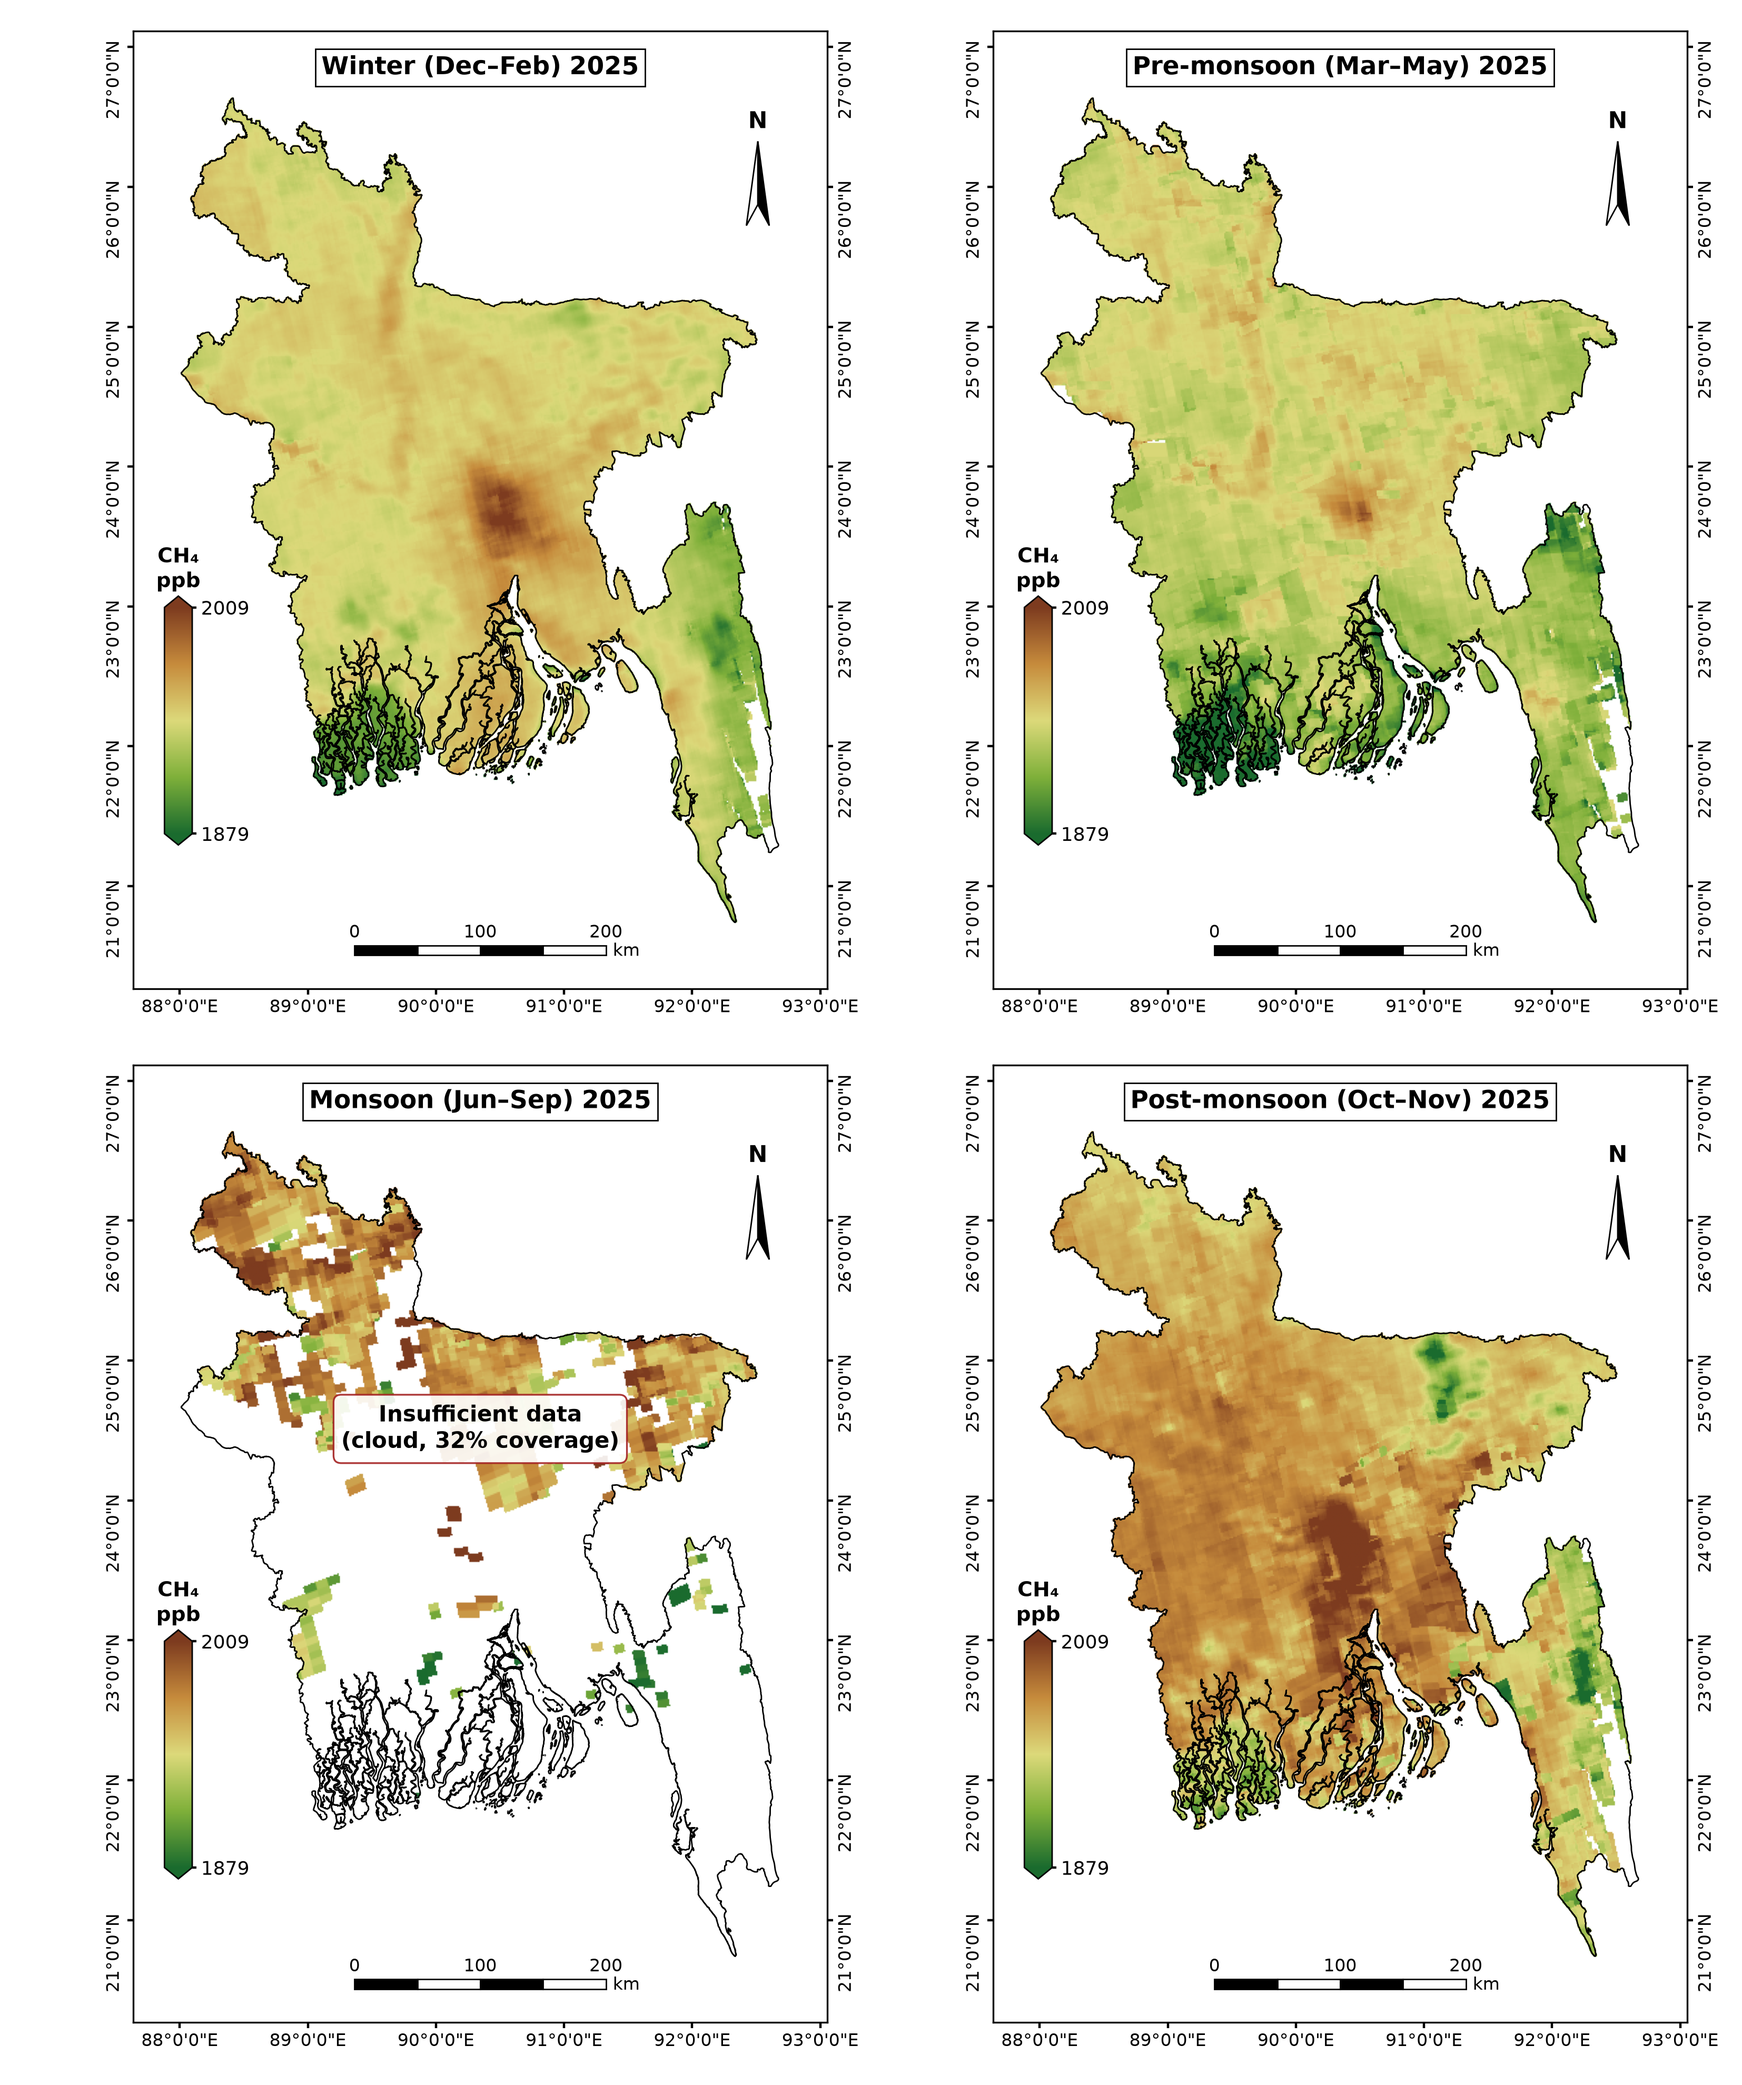
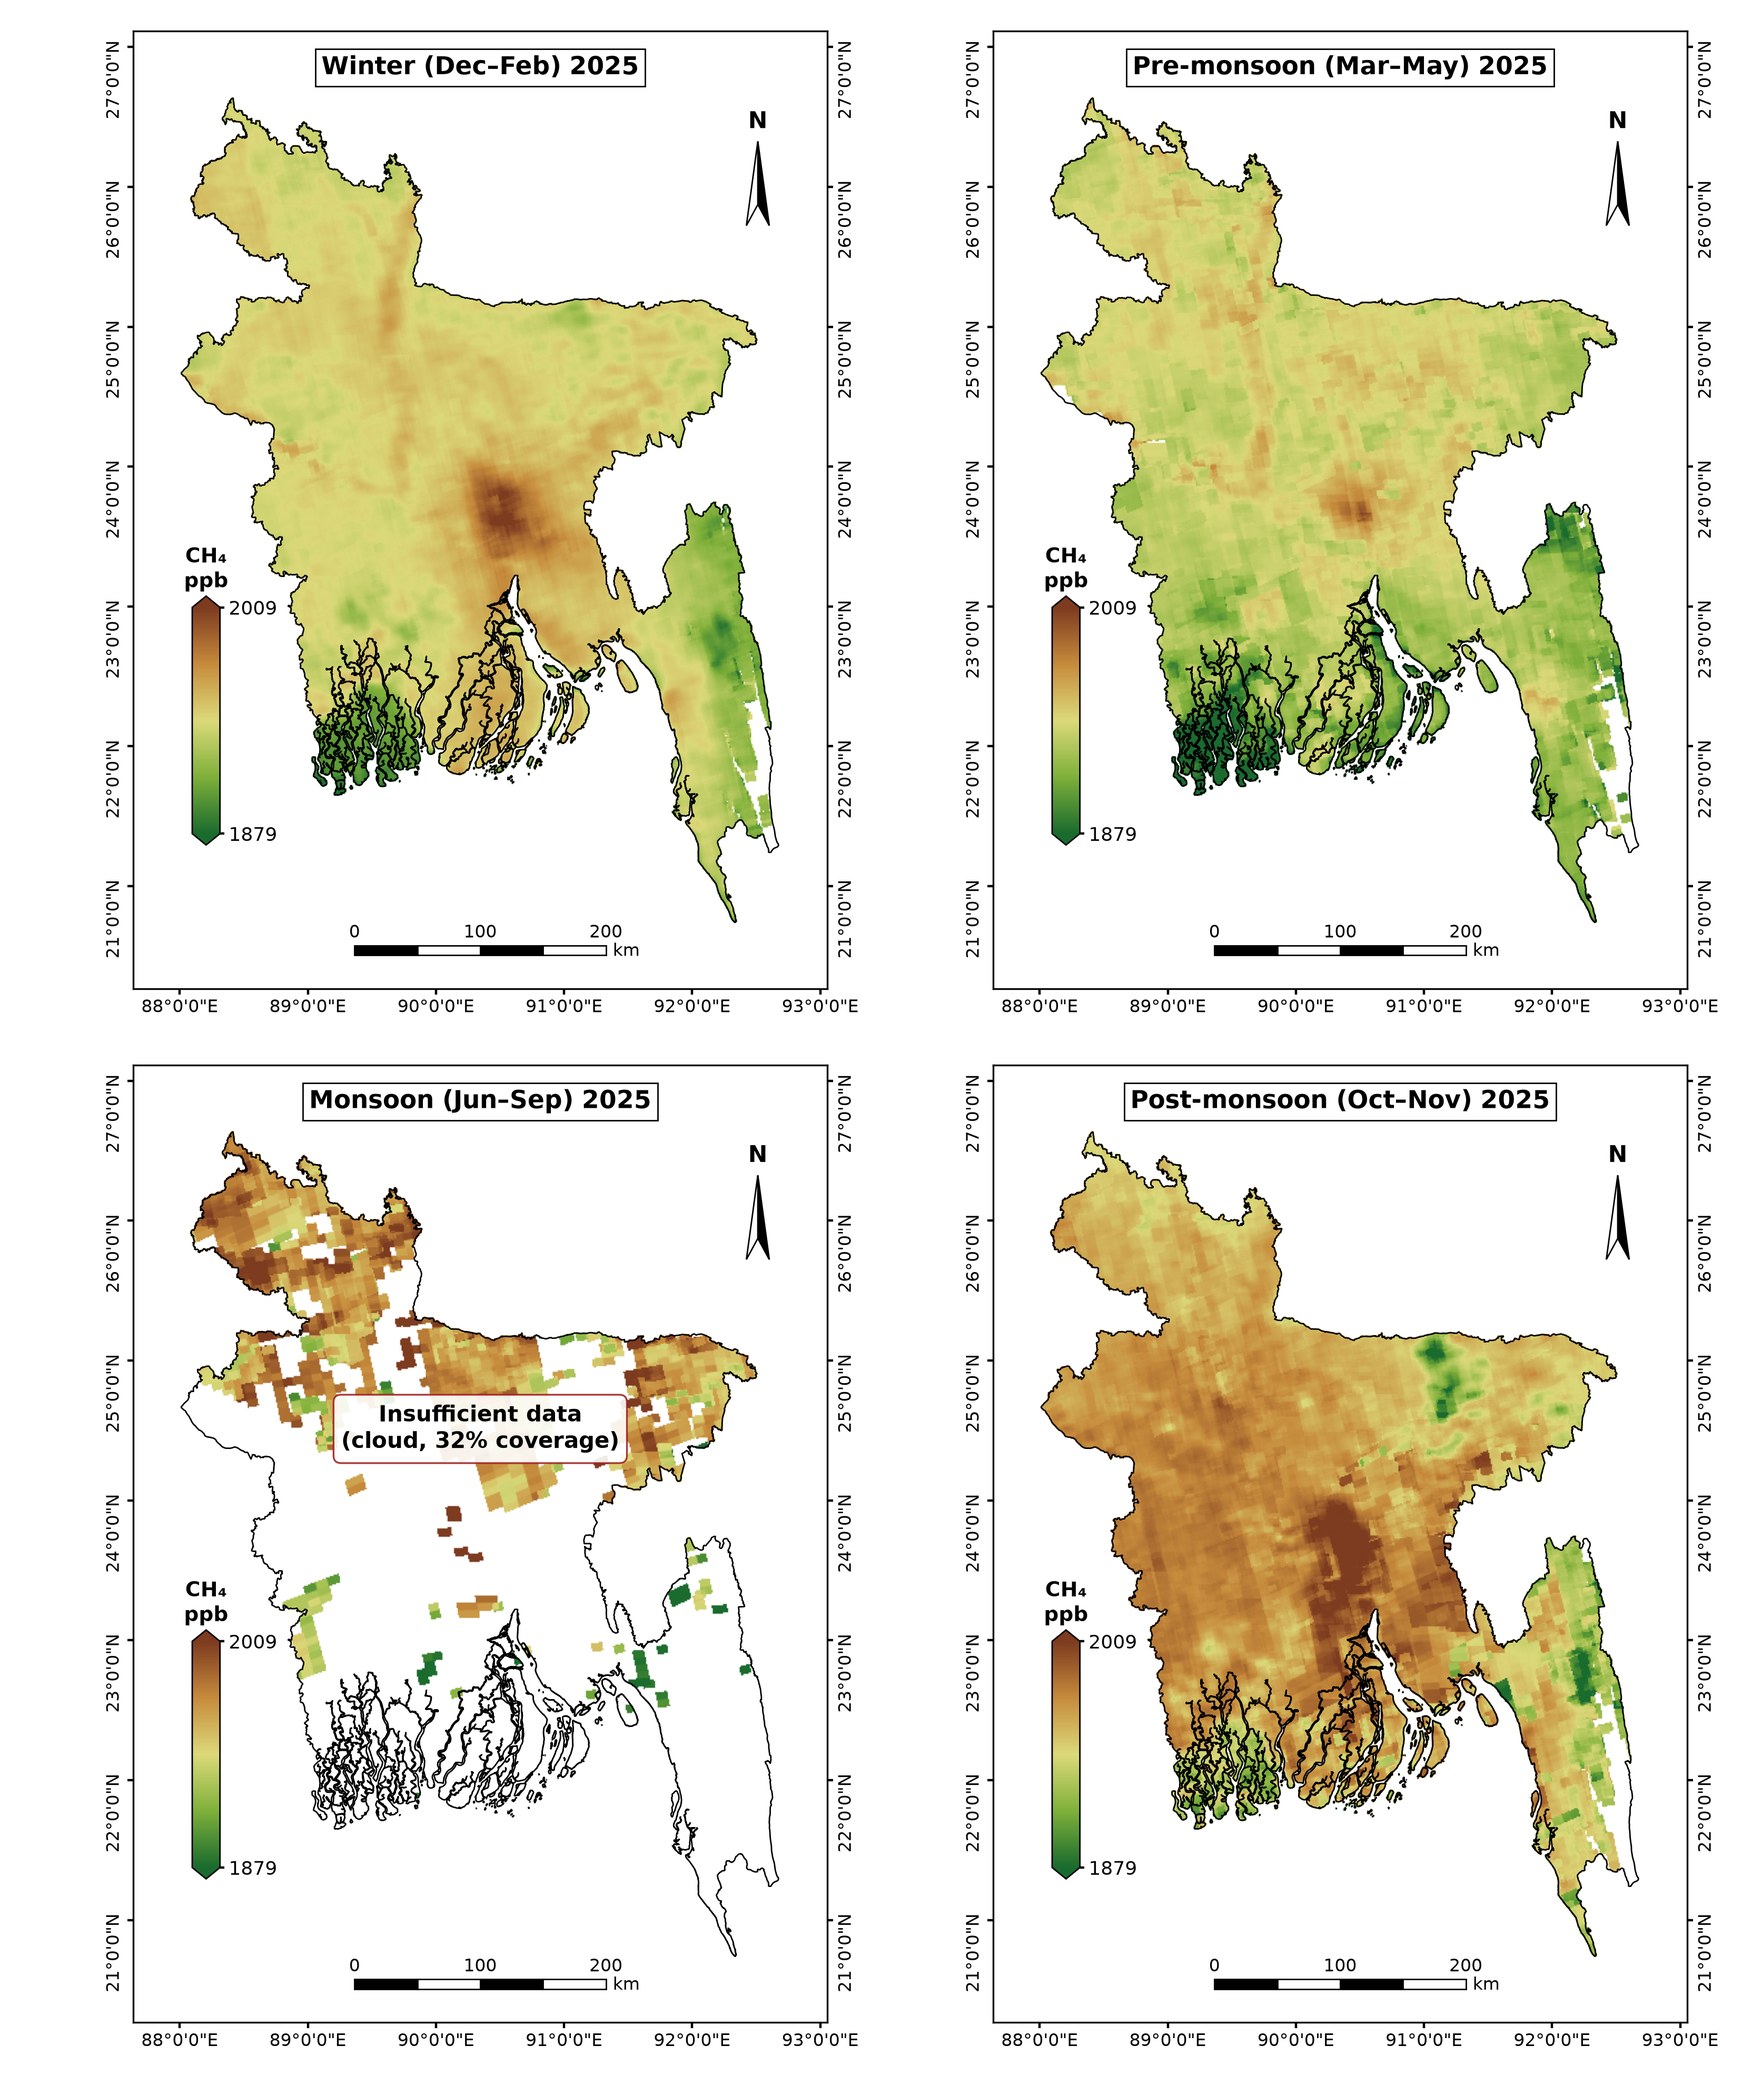
Fix seasonal map legend and update README

diff --git a/Scripts/seasonal_analysis.py b/Scripts/seasonal_analysis.py
@@ -223,7 +223,7 @@ for var, (label, unit, cmap, factor) in VARIABLES.items():
         scale_bar(ax, ext)
 
         cax = inset_axes(ax, width="4%", height="26%", loc="lower left",
-                         bbox_to_anchor=(0.045, 0.15, 1, 1),
+                         bbox_to_anchor=(0.085, 0.15, 1, 1),
                          bbox_transform=ax.transAxes, borderpad=0)
         cb = fig.colorbar(im, cax=cax, extend="both")
         cb.set_ticks([vmin, vmax])

diff --git a/README.md b/README.md
@@ -24,7 +24,7 @@ Script for GEE/      GEE scripts (JavaScript) that export the rasters and daily 
 Scripts/             Python scripts for maps and statistics
 BD_AQ_2025/          Tables exported from GEE and station data (CSV only)
 Figures_v2/          Final figures
-    Annual/  Monthly/  Temporal/  Statistics/  StudyArea/  Flowchart/
+    Annual/  Monthly/  Seasonal/  Temporal/  Statistics/  StudyArea/  Flowchart/
 Station_validation/  Satellite vs DoE station comparison (tables and figure)
 ```
 
@@ -58,8 +58,11 @@ Run in this order:
 | 6 | `correlation_matrix.py` | 0.05° pixel table, Pearson and Spearman matrices |
 | 7 | `regression_plots.py` | LST vs pollutant regressions |
 | 8 | `pca_analysis.py` | PCA scree plot, biplot, loadings |
-| 9 | `gwr_analysis.py` | GWR coefficient maps and summary |
-| 10 | `station_validation.py` | Satellite vs station comparison, WHO / Bangladesh standard table |
+| 9 | `gwr_analysis.py` | GWR coefficient maps and summary (main model and UVAI check model) |
+| 10 | `seasonal_analysis.py` | Seasonal maps, seasonal means, seasonal LST–pollutant correlation |
+| 11 | `station_validation.py` | Satellite vs station comparison, WHO / Bangladesh standard table |
+
+Steps 7–9 read the pixel table made in step 6, so run step 6 first.
 
 ## How to run
 
@@ -81,7 +84,11 @@ Each script prints `Done.` when it finishes.
 - Months with < 50% valid pixels are labelled as insufficient data (monsoon cloud).
 - One shared colour scale per variable across all months.
 - O3 is converted from mol/m² to Dobson Units for mapping.
+- NO2 and SO2 are shown in µmol/m² (mol/m² × 10⁶); SO2 values below −0.001 mol/m² are removed as noise.
 - PM2.5 and PM10 are not estimated from satellite data; AOD is analysed directly.
+- Seasons: winter (Dec–Feb, using Jan, Feb and Dec 2025), pre-monsoon (Mar–May), monsoon (Jun–Sep), post-monsoon (Oct–Nov).
+- GWR: LST Day and LST Night ~ AOD + CH4 + HCHO + NO2 + CO (adaptive bisquare kernel, AICc bandwidth). UVAI, O3 and SO2 are left out of the main model; a second model with UVAI in place of AOD is run as a check.
+- Station comparison: 3 × 3 pixel mean at each DoE station, station-months with at least 50% data capture.
 
 ## Contact
 
